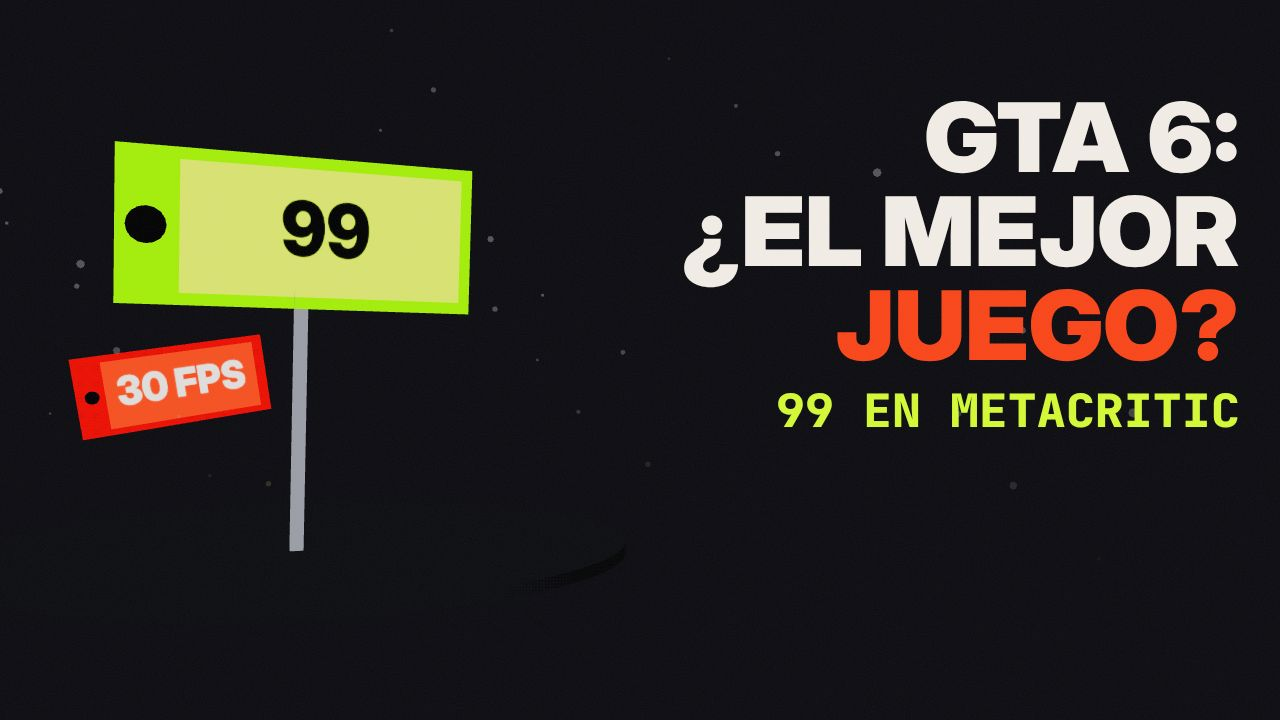
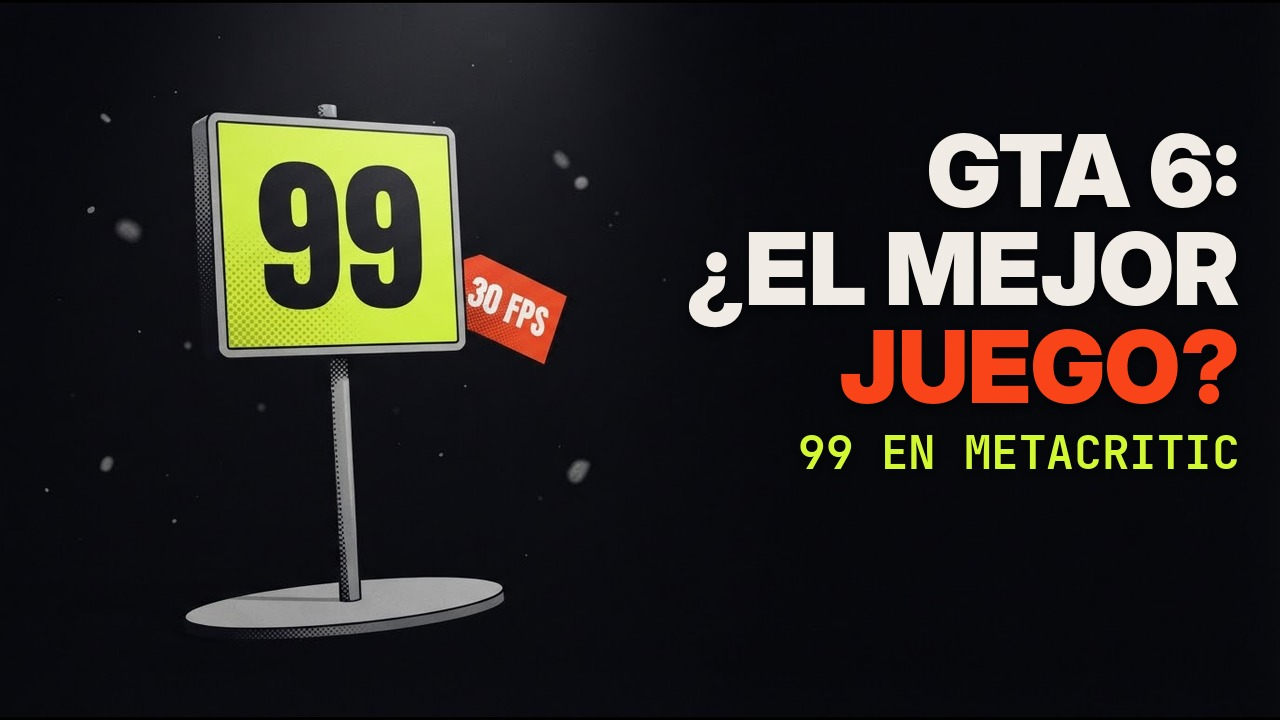
g05: miniatura final (imagen del dueño + texto del canal)
Claude-Session: https://claude.ai/code/session_011f9PzjwZsNP3srvZe36gnY

diff --git a/videos-geopolitica/gta6/g05/publicacion.md b/videos-geopolitica/gta6/g05/publicacion.md
@@ -1,6 +1,6 @@
 # g05: GTA 6 sacó 99. ¿De verdad es el mejor juego de la historia?
 
-Video largo (~6:40) · Archivo: gta6_99_metacritic.mp4 · Miniatura: miniatura.jpg
+Video largo (~6:40) · Archivo: gta6_99_metacritic.mp4 · Miniatura: miniatura_final.jpg (imagen del dueño + texto del canal)
 
 ## Título
 GTA 6 sacó 99 en Metacritic: ¿de verdad es el mejor juego de la historia? (reseñas, quejas y guía)
